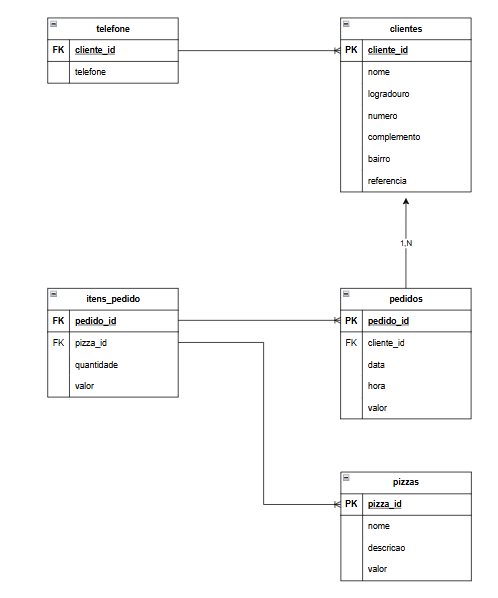
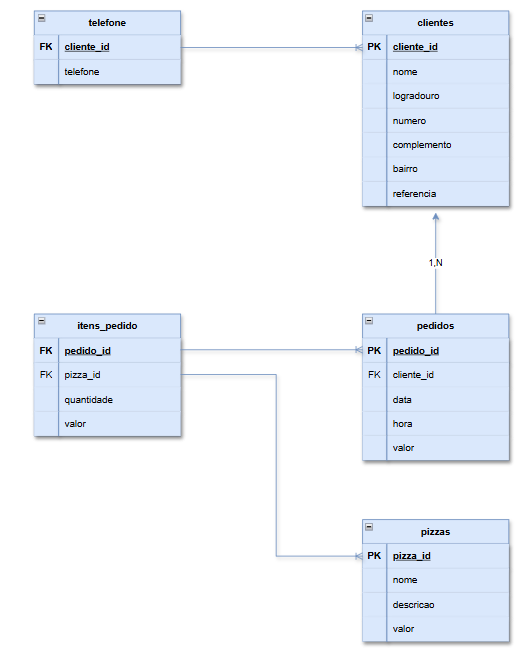
a

diff --git a/README.md b/README.md
@@ -1,3 +1,6 @@
 # Desafios Aula 10 Banco de Dados
 Atividades realizadas na matéria de Banco de Dados do curso de Desenvolvimento de Sistemas do SENAI
 
+## MER DER
+<img src="./docs/mer.png">
+<img src="./docs/der.png">
